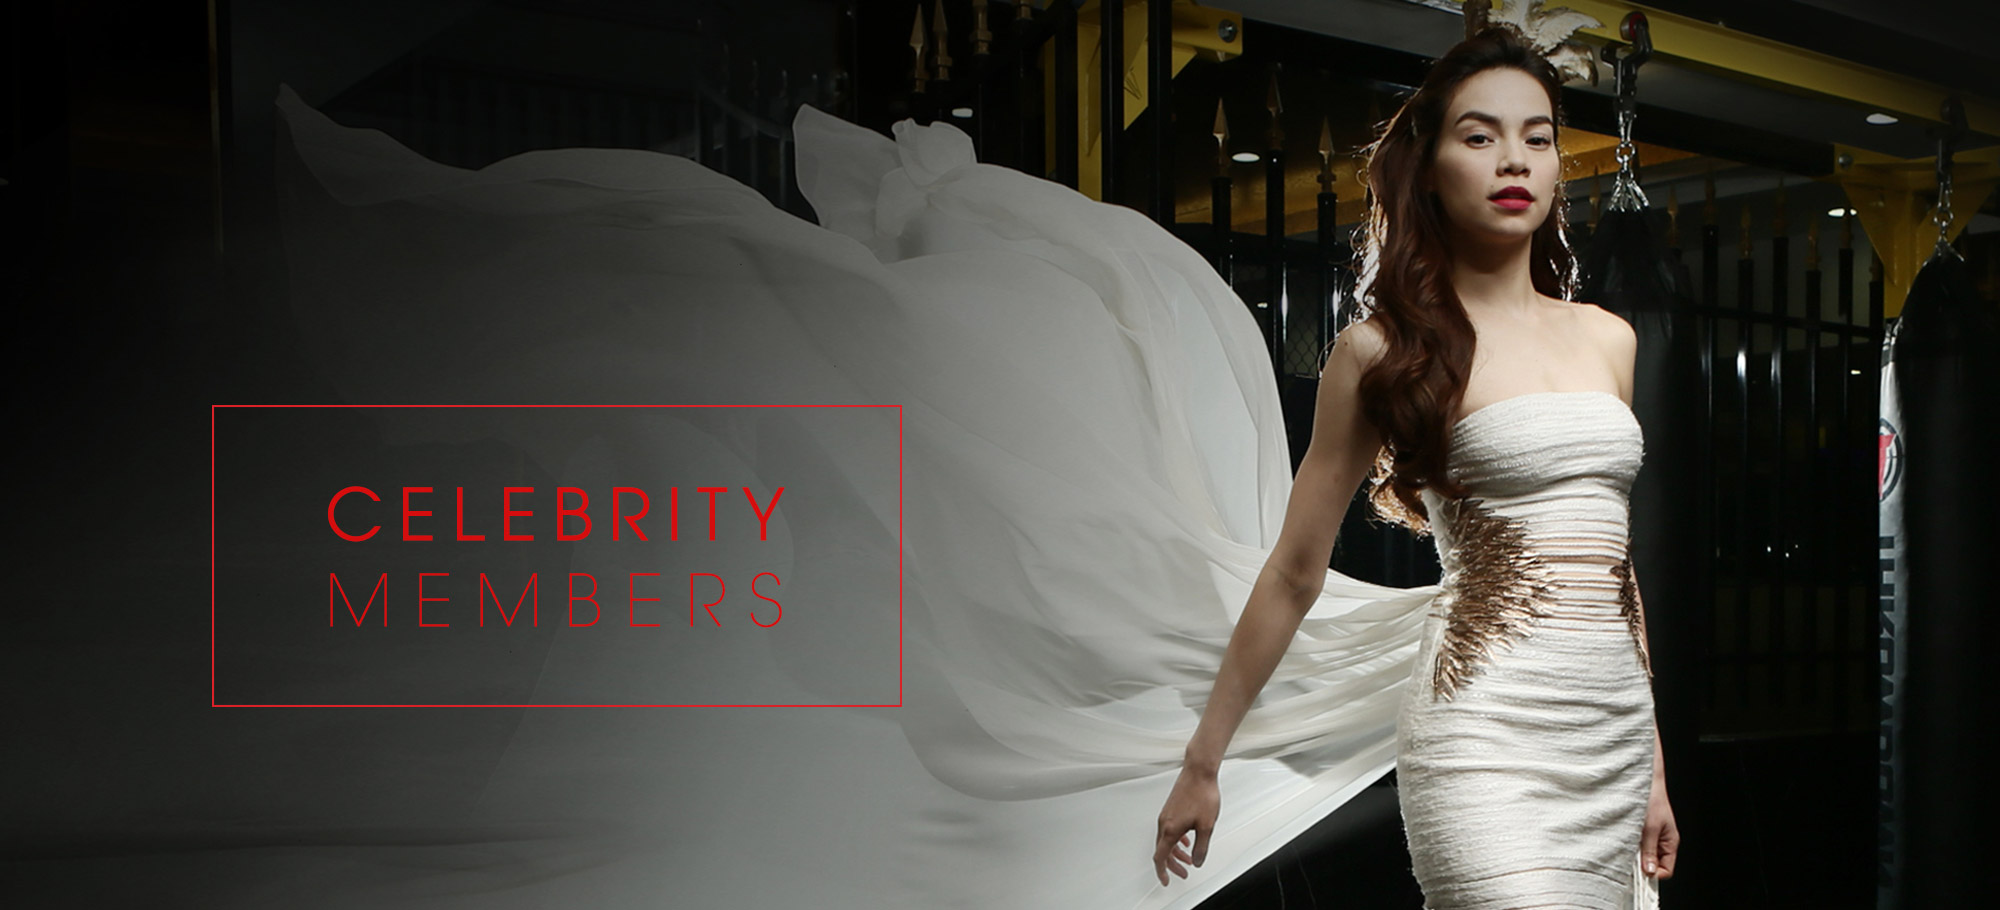
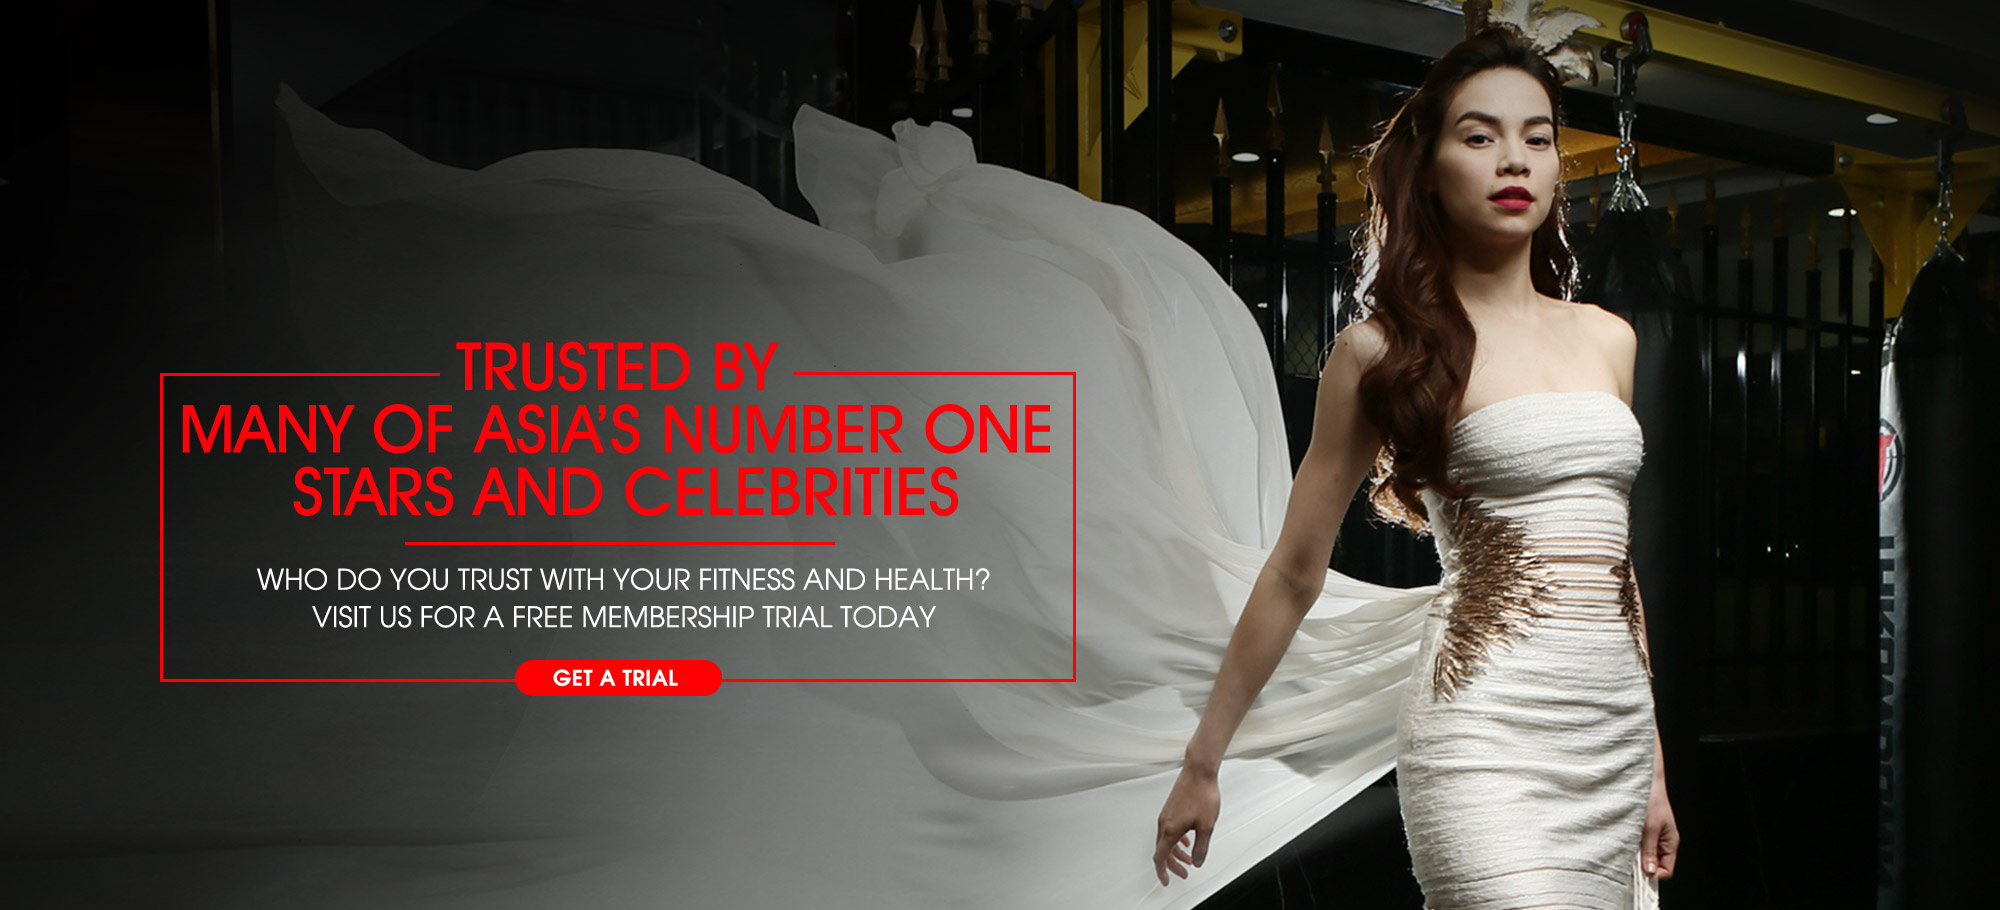
update celebrity member as Glen changes design

Changed region(s): [[0.062, 0.3692, 0.527, 0.7692]]

diff --git a/users/SongPham/cfyc/pages/celebrity-members.php b/users/SongPham/cfyc/pages/celebrity-members.php
@@ -3,7 +3,9 @@
 <div class="container-fluid">
     <!-- Top Banner -->
     <div class="row gallery">
-    	<img src="img/celebrity-members/california-wow-celebrity-members.jpg" alt="Celebrity Members">
+    	<a href="javascript:void(0)" title="Visit us for a free membership trial today" alt="Visit us for a free membership trial today">
+    		<img src="img/celebrity-members/california-wow-celebrity-members.jpg"  title="Visit us for a free membership trial today" alt="Visit us for a free membership trial today">
+    	</a>
     </div><!-- /.Top Banner -->
     <div class="row top-content">
         <div class="holder-top-content">
